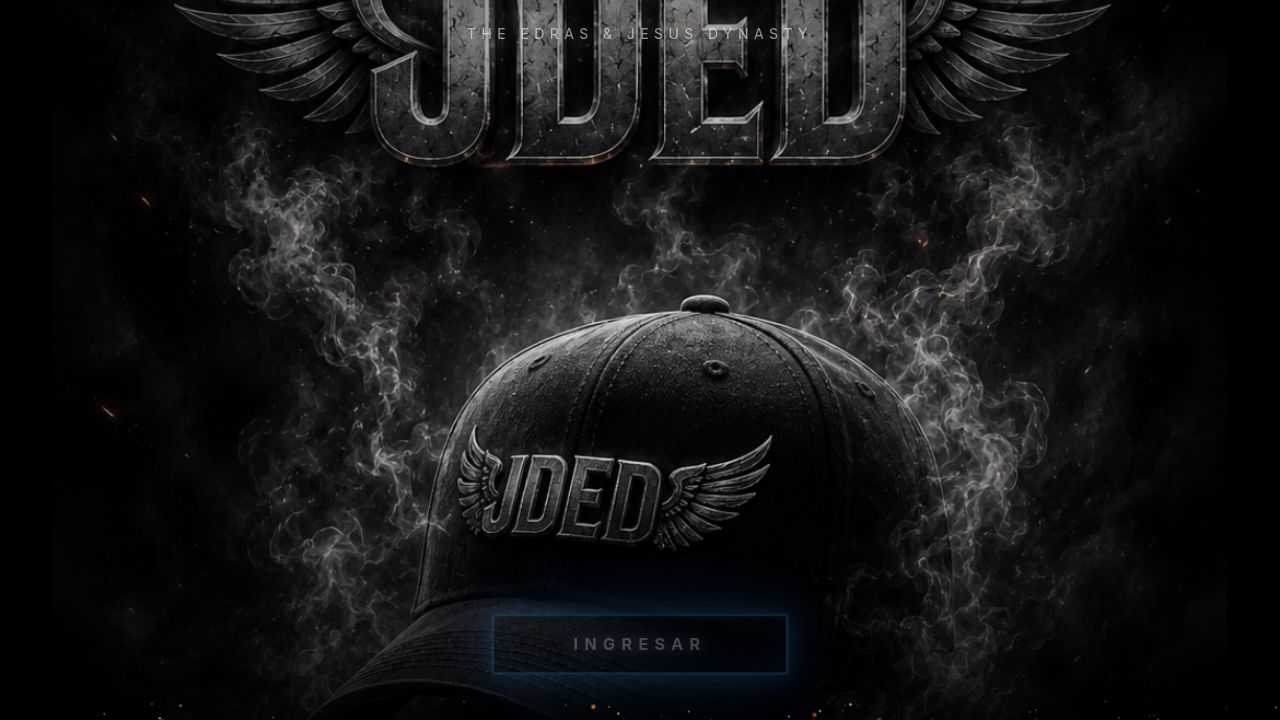
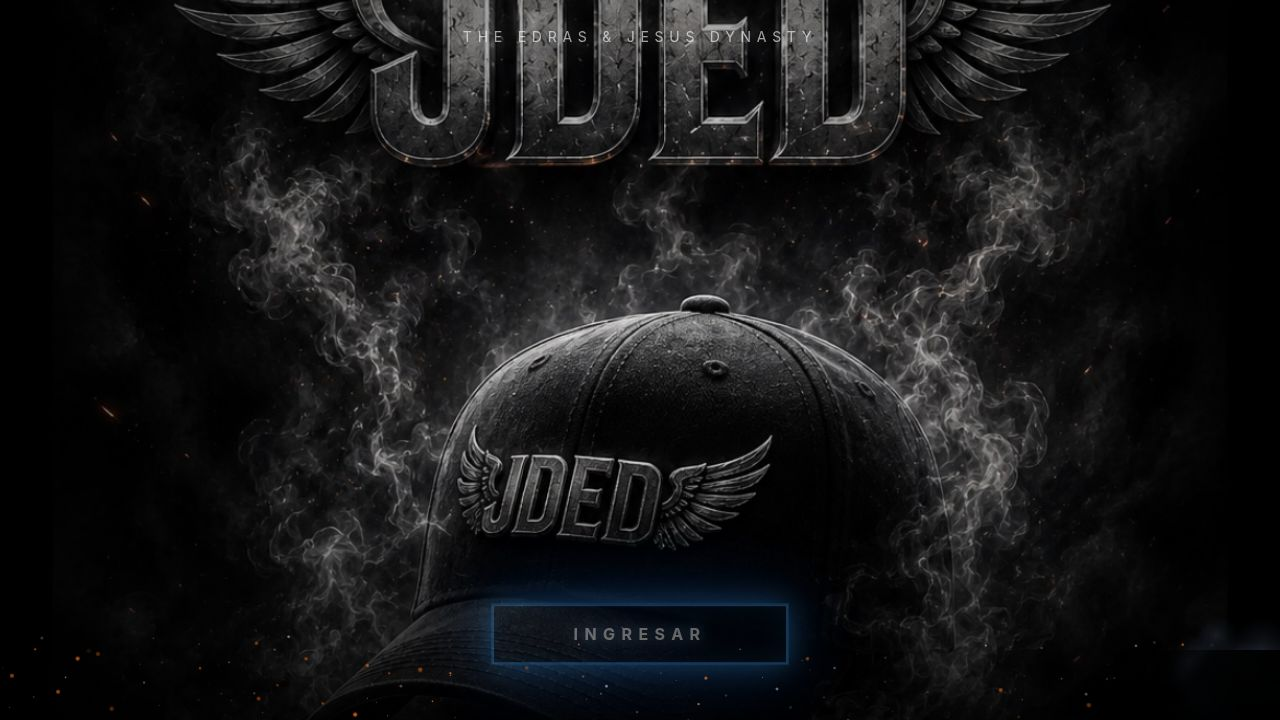
Add decorative effects to mask hosting watermarks
Introduce a `CornerAmbient` component to both Replit and Vercel deployments, applying a visually premium, animated overlay in the bottom-right corner to obscure the Replit watermark. This component utilizes layered gradients, a pulsing glow, and a canvas-based smoke effect, ensuring it blends with the site's aesthetic without impacting user interaction or responsiveness.

Replit-Commit-Author: Agent
Replit-Commit-Session-Id: 3a5600d3-366f-49cf-8bc4-9ac916b29e05
Replit-Commit-Checkpoint-Type: full_checkpoint
Replit-Commit-Event-Id: b4c84af3-7dbf-4f8c-aac3-b31b8015ba1a
Replit-Commit-Screenshot-Url: https://storage.googleapis.com/screenshot-production-us-central1/8e79a9b6-3fb6-4e7f-835d-c0fcdb58db3d/3a5600d3-366f-49cf-8bc4-9ac916b29e05/unQQS3y
Replit-Helium-Checkpoint-Created: true

Changed region(s): [[0.375, 0.825, 0.625, 0.9472], [0.375, 0.0306, 0.625, 0.0611], [0.9688, 0.8861, 1.0, 0.9167]]

diff --git a/app/src/components/store/corner-ambient.tsx b/app/src/components/store/corner-ambient.tsx
@@ -1,0 +1,127 @@
+import { useEffect, useRef } from "react";
+
+export function CornerAmbient() {
+  const canvasRef = useRef<HTMLCanvasElement>(null);
+
+  useEffect(() => {
+    const canvas = canvasRef.current;
+    if (!canvas) return;
+    const ctx = canvas.getContext("2d");
+    if (!ctx) return;
+
+    const W = 260;
+    const H = 110;
+    canvas.width = W;
+    canvas.height = H;
+
+    type Wisp = {
+      x: number; y: number;
+      vx: number; vy: number;
+      r: number; alpha: number; decay: number;
+    };
+
+    function spawn(): Wisp {
+      return {
+        x: W * 0.6 + Math.random() * W * 0.5,
+        y: H * 0.4 + Math.random() * H * 0.7,
+        vx: (Math.random() - 0.5) * 0.4,
+        vy: -(Math.random() * 0.5 + 0.1),
+        r: Math.random() * 22 + 10,
+        alpha: Math.random() * 0.18 + 0.04,
+        decay: Math.random() * 0.002 + 0.0005,
+      };
+    }
+
+    const wisps: Wisp[] = Array.from({ length: 28 }, spawn);
+
+    let raf: number;
+    const draw = () => {
+      ctx.clearRect(0, 0, W, H);
+      for (const w of wisps) {
+        w.x += w.vx;
+        w.y += w.vy;
+        w.alpha -= w.decay;
+        if (w.alpha <= 0 || w.y < -w.r) Object.assign(w, spawn());
+        const g = ctx.createRadialGradient(w.x, w.y, 0, w.x, w.y, w.r);
+        g.addColorStop(0, `rgba(160,185,220,${w.alpha})`);
+        g.addColorStop(1, `rgba(80,110,170,0)`);
+        ctx.fillStyle = g;
+        ctx.beginPath();
+        ctx.arc(w.x, w.y, w.r, 0, Math.PI * 2);
+        ctx.fill();
+      }
+      raf = requestAnimationFrame(draw);
+    };
+    draw();
+
+    return () => cancelAnimationFrame(raf);
+  }, []);
+
+  return (
+    <>
+      <style>{`
+        @keyframes cornerPulse {
+          0%,100% { opacity: 0.7; }
+          50% { opacity: 1; }
+        }
+        @keyframes cornerShift {
+          0%,100% { transform: scale(1) translate(0,0); opacity: 0.5; }
+          50% { transform: scale(1.08) translate(-4px,-3px); opacity: 0.75; }
+        }
+      `}</style>
+
+      <div
+        className="fixed bottom-0 right-0 pointer-events-none"
+        style={{ width: 260, height: 110, zIndex: 2147483646 }}
+        aria-hidden="true"
+      >
+        {/* Deep corner dark fill */}
+        <div
+          className="absolute inset-0"
+          style={{
+            background:
+              "radial-gradient(ellipse 130% 130% at 115% 115%, rgba(0,0,0,0.97) 0%, rgba(0,0,0,0.88) 38%, rgba(0,0,0,0.55) 62%, transparent 80%)",
+          }}
+        />
+
+        {/* Blue-silver ambient glow — JDED brand accent */}
+        <div
+          className="absolute inset-0"
+          style={{
+            background:
+              "radial-gradient(ellipse 80% 70% at 105% 110%, rgba(25,90,200,0.22) 0%, rgba(40,120,220,0.1) 45%, transparent 70%)",
+            animation: "cornerPulse 4.5s ease-in-out infinite",
+          }}
+        />
+
+        {/* Secondary chrome shimmer */}
+        <div
+          className="absolute inset-0"
+          style={{
+            background:
+              "radial-gradient(ellipse 55% 45% at 95% 105%, rgba(180,200,230,0.06) 0%, transparent 65%)",
+            animation: "cornerShift 6s ease-in-out infinite",
+          }}
+        />
+
+        {/* Smoke wisps canvas */}
+        <canvas
+          ref={canvasRef}
+          className="absolute inset-0"
+          style={{ mixBlendMode: "screen" }}
+        />
+
+        {/* Hard edge vignette to ensure dark fill at the very corner */}
+        <div
+          className="absolute bottom-0 right-0"
+          style={{
+            width: 160,
+            height: 70,
+            background:
+              "linear-gradient(135deg, transparent 0%, rgba(0,0,0,0.92) 55%, rgba(0,0,0,0.98) 100%)",
+          }}
+        />
+      </div>
+    </>
+  );
+}

diff --git a/artifacts/space-caps/src/components/corner-ambient.tsx b/artifacts/space-caps/src/components/corner-ambient.tsx
@@ -1,0 +1,127 @@
+import { useEffect, useRef } from "react";
+
+export function CornerAmbient() {
+  const canvasRef = useRef<HTMLCanvasElement>(null);
+
+  useEffect(() => {
+    const canvas = canvasRef.current;
+    if (!canvas) return;
+    const ctx = canvas.getContext("2d");
+    if (!ctx) return;
+
+    const W = 260;
+    const H = 110;
+    canvas.width = W;
+    canvas.height = H;
+
+    type Wisp = {
+      x: number; y: number;
+      vx: number; vy: number;
+      r: number; alpha: number; decay: number;
+    };
+
+    function spawn(): Wisp {
+      return {
+        x: W * 0.6 + Math.random() * W * 0.5,
+        y: H * 0.4 + Math.random() * H * 0.7,
+        vx: (Math.random() - 0.5) * 0.4,
+        vy: -(Math.random() * 0.5 + 0.1),
+        r: Math.random() * 22 + 10,
+        alpha: Math.random() * 0.18 + 0.04,
+        decay: Math.random() * 0.002 + 0.0005,
+      };
+    }
+
+    const wisps: Wisp[] = Array.from({ length: 28 }, spawn);
+
+    let raf: number;
+    const draw = () => {
+      ctx.clearRect(0, 0, W, H);
+      for (const w of wisps) {
+        w.x += w.vx;
+        w.y += w.vy;
+        w.alpha -= w.decay;
+        if (w.alpha <= 0 || w.y < -w.r) Object.assign(w, spawn());
+        const g = ctx.createRadialGradient(w.x, w.y, 0, w.x, w.y, w.r);
+        g.addColorStop(0, `rgba(160,185,220,${w.alpha})`);
+        g.addColorStop(1, `rgba(80,110,170,0)`);
+        ctx.fillStyle = g;
+        ctx.beginPath();
+        ctx.arc(w.x, w.y, w.r, 0, Math.PI * 2);
+        ctx.fill();
+      }
+      raf = requestAnimationFrame(draw);
+    };
+    draw();
+
+    return () => cancelAnimationFrame(raf);
+  }, []);
+
+  return (
+    <>
+      <style>{`
+        @keyframes cornerPulse {
+          0%,100% { opacity: 0.7; }
+          50% { opacity: 1; }
+        }
+        @keyframes cornerShift {
+          0%,100% { transform: scale(1) translate(0,0); opacity: 0.5; }
+          50% { transform: scale(1.08) translate(-4px,-3px); opacity: 0.75; }
+        }
+      `}</style>
+
+      <div
+        className="fixed bottom-0 right-0 pointer-events-none"
+        style={{ width: 260, height: 110, zIndex: 2147483646 }}
+        aria-hidden="true"
+      >
+        {/* Deep corner dark fill */}
+        <div
+          className="absolute inset-0"
+          style={{
+            background:
+              "radial-gradient(ellipse 130% 130% at 115% 115%, rgba(0,0,0,0.97) 0%, rgba(0,0,0,0.88) 38%, rgba(0,0,0,0.55) 62%, transparent 80%)",
+          }}
+        />
+
+        {/* Blue-silver ambient glow — JDED brand accent */}
+        <div
+          className="absolute inset-0"
+          style={{
+            background:
+              "radial-gradient(ellipse 80% 70% at 105% 110%, rgba(25,90,200,0.22) 0%, rgba(40,120,220,0.1) 45%, transparent 70%)",
+            animation: "cornerPulse 4.5s ease-in-out infinite",
+          }}
+        />
+
+        {/* Secondary chrome shimmer */}
+        <div
+          className="absolute inset-0"
+          style={{
+            background:
+              "radial-gradient(ellipse 55% 45% at 95% 105%, rgba(180,200,230,0.06) 0%, transparent 65%)",
+            animation: "cornerShift 6s ease-in-out infinite",
+          }}
+        />
+
+        {/* Smoke wisps canvas */}
+        <canvas
+          ref={canvasRef}
+          className="absolute inset-0"
+          style={{ mixBlendMode: "screen" }}
+        />
+
+        {/* Hard edge vignette to ensure dark fill at the very corner */}
+        <div
+          className="absolute bottom-0 right-0"
+          style={{
+            width: 160,
+            height: 70,
+            background:
+              "linear-gradient(135deg, transparent 0%, rgba(0,0,0,0.92) 55%, rgba(0,0,0,0.98) 100%)",
+          }}
+        />
+      </div>
+    </>
+  );
+}

diff --git a/app/src/App.tsx b/app/src/App.tsx
@@ -7,6 +7,7 @@ import { AuthProvider } from "@/components/admin/auth-provider";
 import { AnimatedStarfield } from "@/components/store/animated-starfield";
 import { Header } from "@/components/store/header";
 import { IntroScreen } from "@/components/store/intro-screen";
+import { CornerAmbient } from "@/components/store/corner-ambient";
 import Home from "@/pages/Home";
 import ProductDetail from "@/pages/Product";
 import NotFound from "@/pages/not-found";
@@ -68,6 +69,7 @@ function StoreLayout() {
       <Footer />
       <WhatsAppButton />
       {showIntro && <IntroScreen onEnter={handleEnter} />}
+      <CornerAmbient />
     </div>
   );
 }

diff --git a/artifacts/space-caps/src/App.tsx b/artifacts/space-caps/src/App.tsx
@@ -9,6 +9,7 @@ import ProductDetail from "@/pages/Product";
 import { Header } from "@/components/header";
 import { AnimatedStarfield } from "@/components/animated-starfield";
 import { IntroScreen } from "@/components/intro-screen";
+import { CornerAmbient } from "@/components/corner-ambient";
 
 const queryClient = new QueryClient();
 
@@ -74,6 +75,7 @@ function App() {
             <WhatsAppButton />
           </div>
           {showIntro && <IntroScreen onEnter={handleEnter} />}
+          <CornerAmbient />
         </WouterRouter>
         <Toaster />
       </TooltipProvider>
